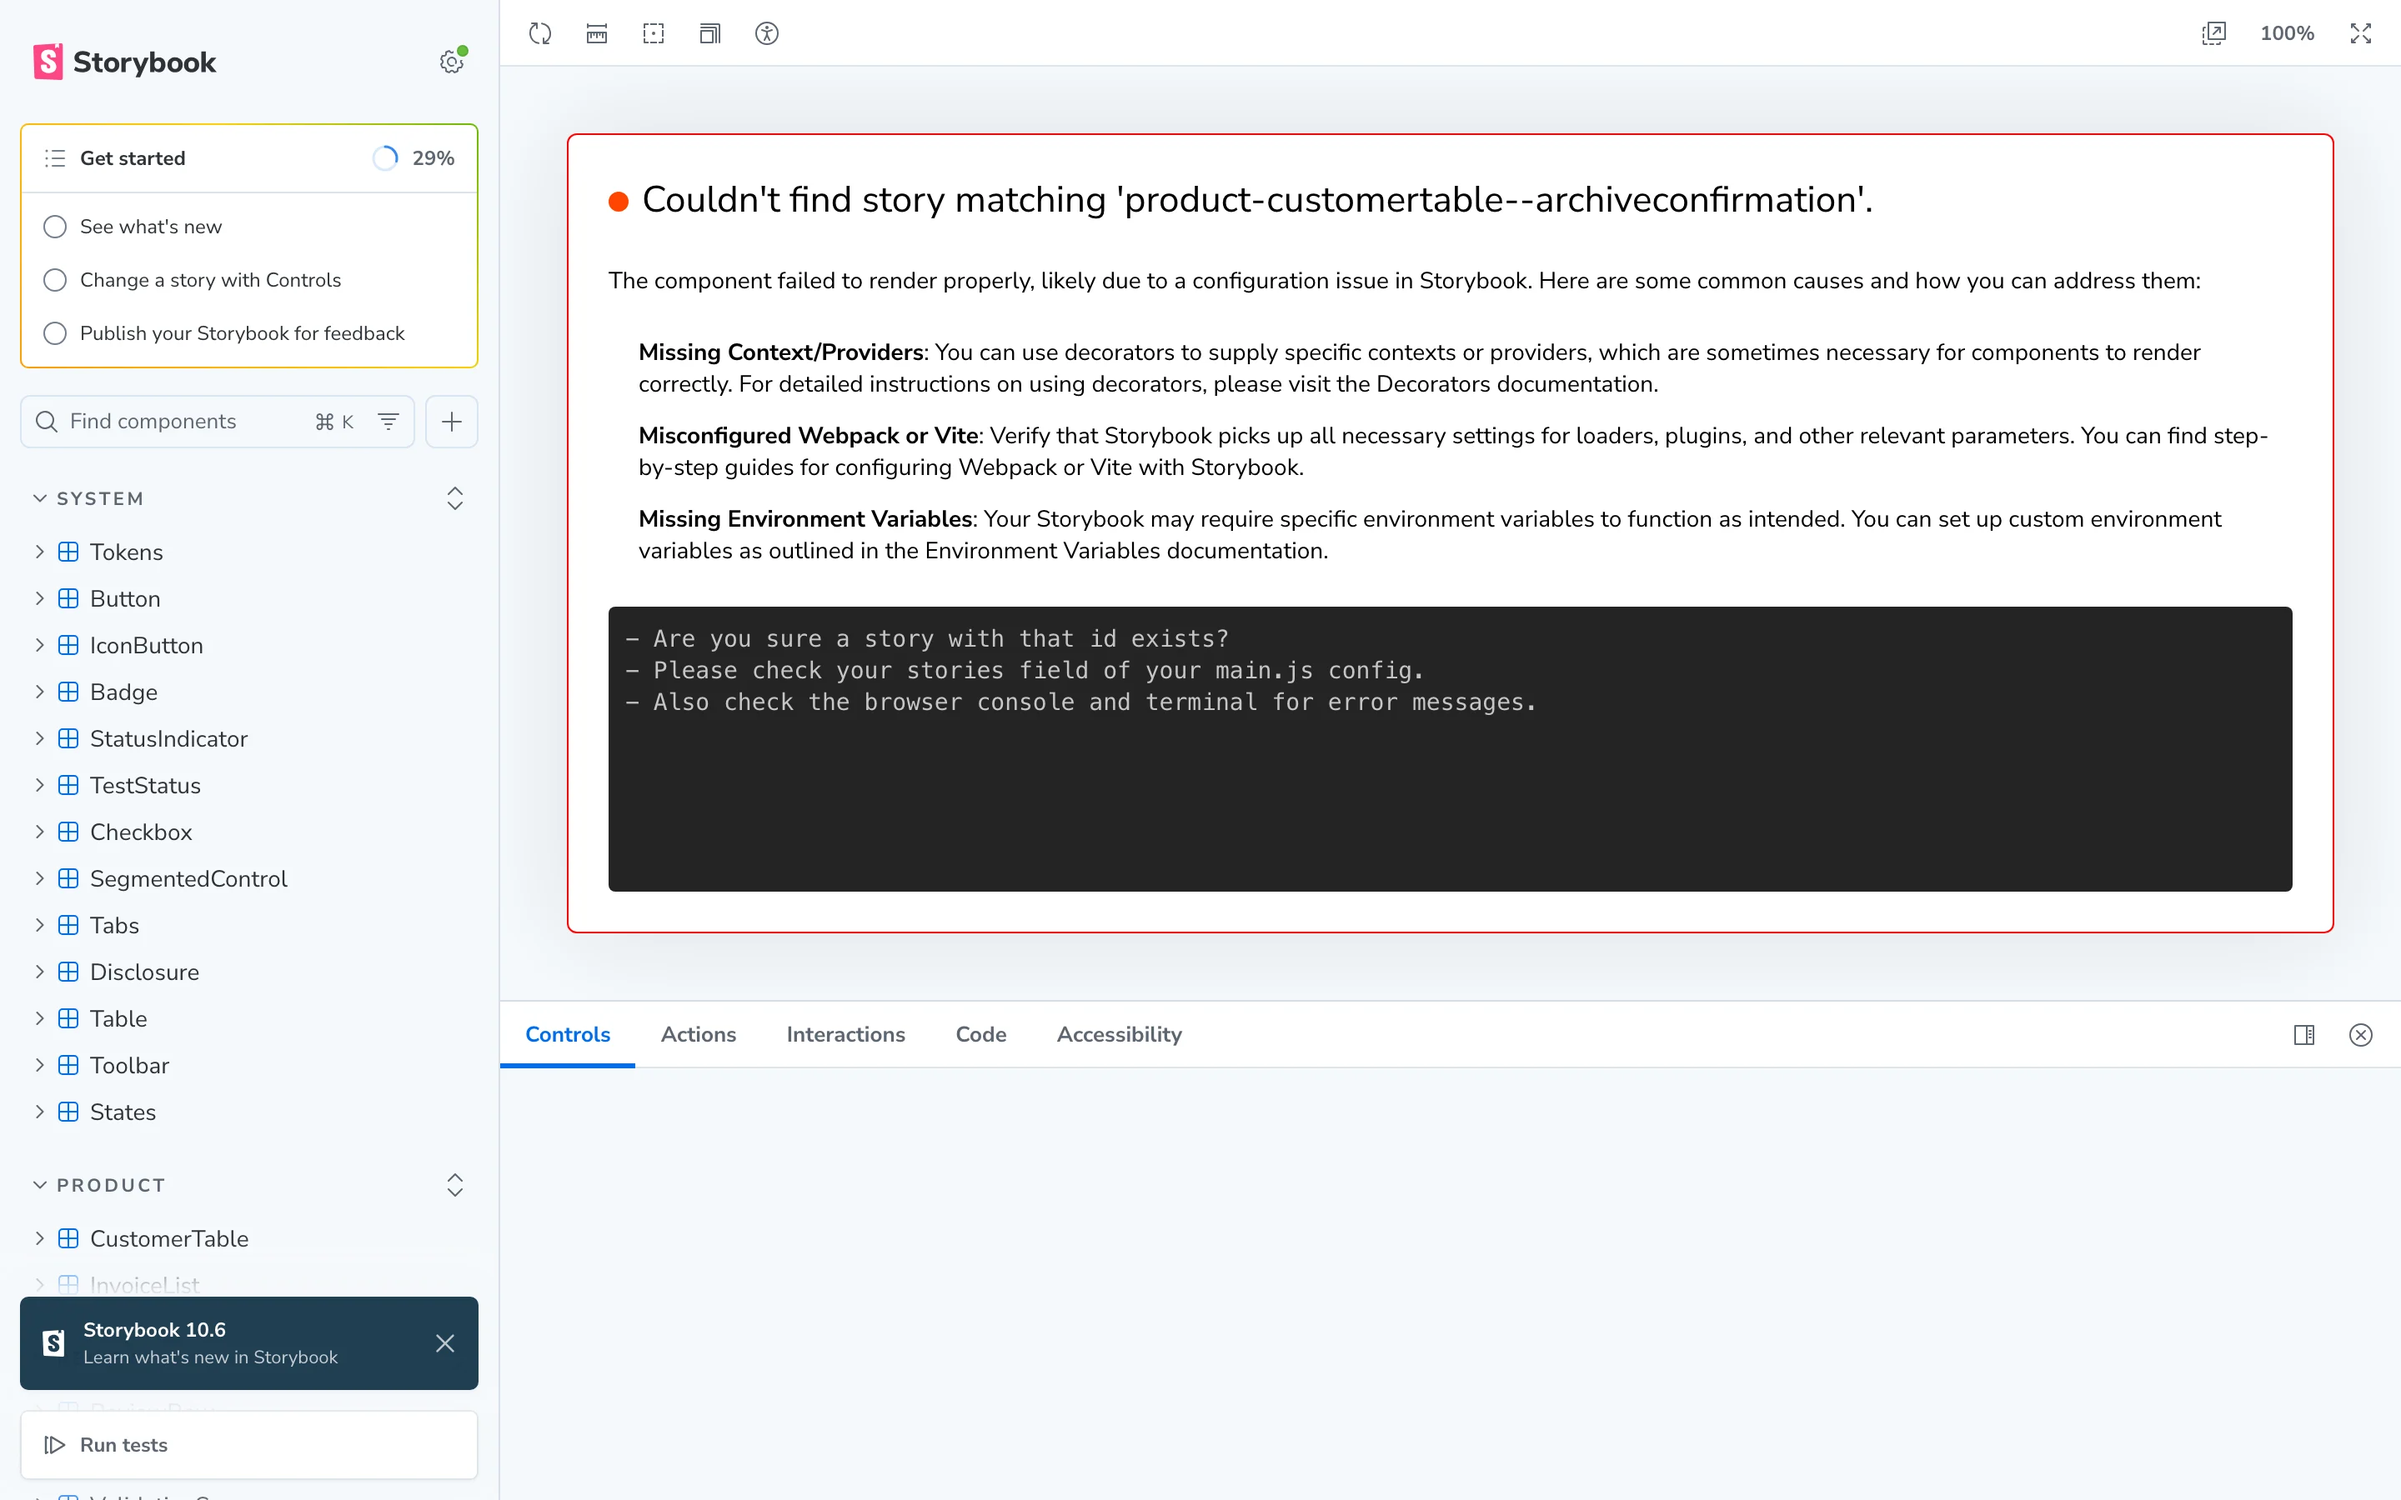
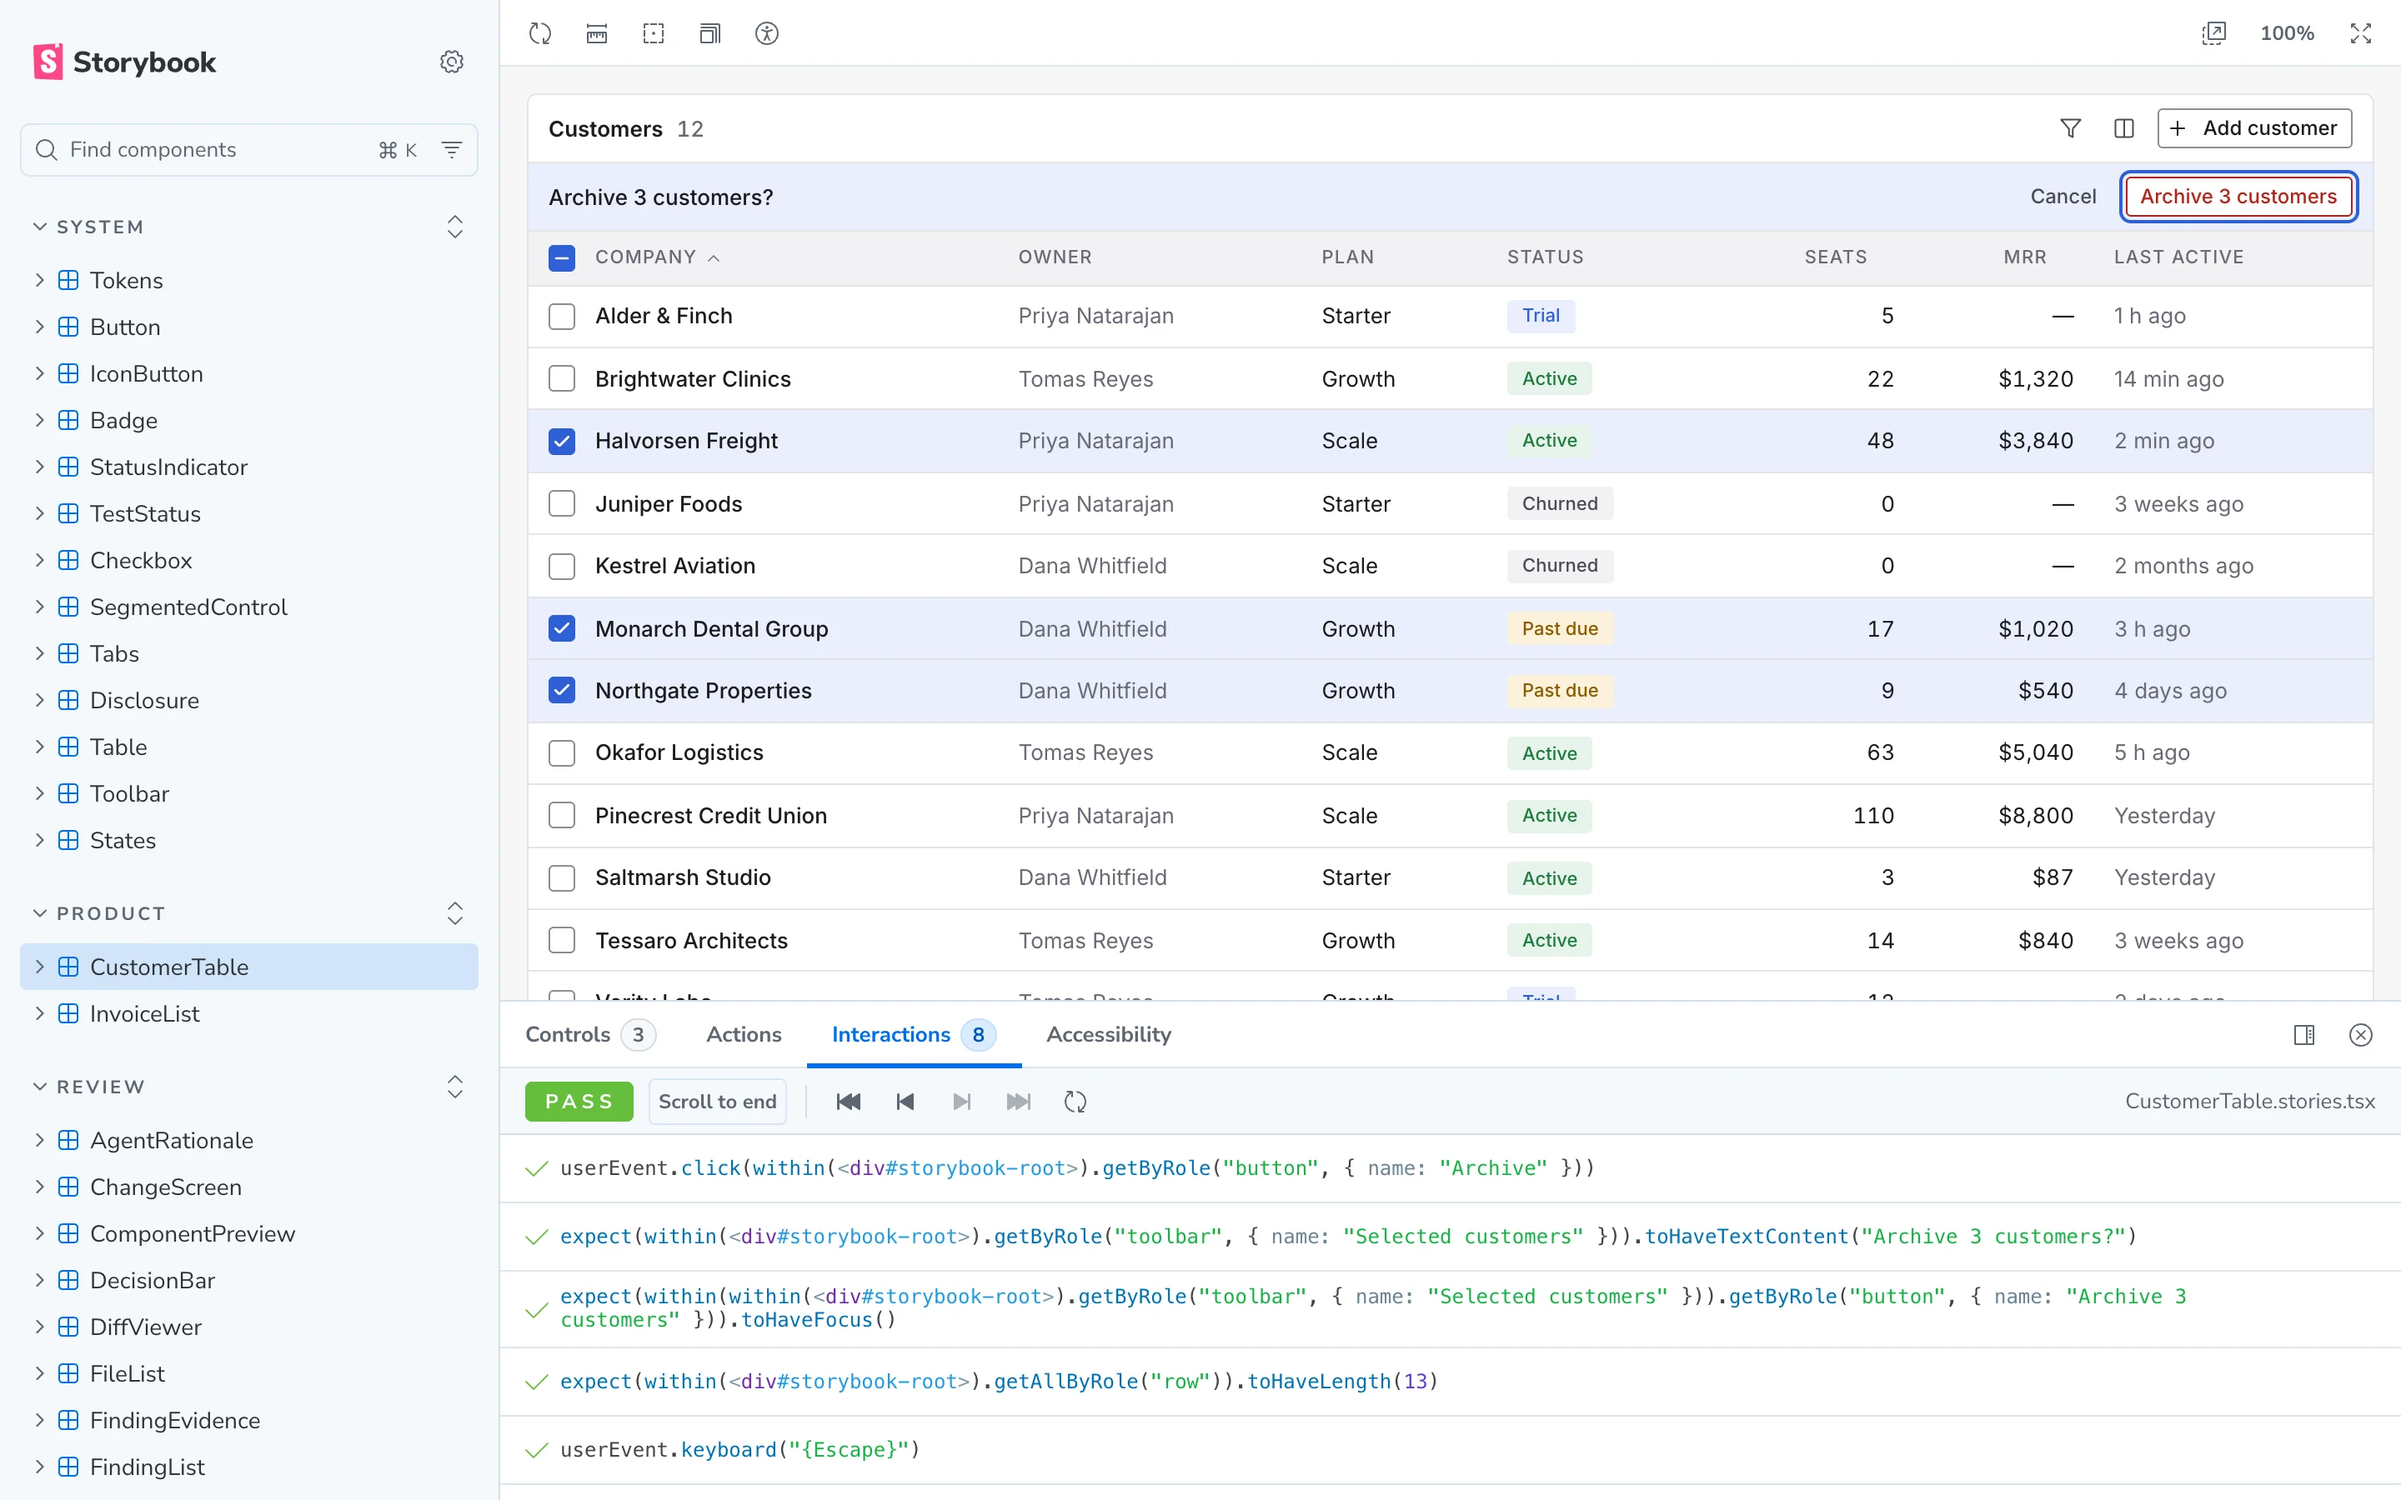
The Agent Review Storybook shot shows the story, not Storybook's not-found page
The capture loaded product-customertable--archiveconfirmation; Storybook's
id is --archive-confirmation, so the committed file was the "Couldn't find
story" error. Retaken from the deployed Storybook at 1440x900 @2x on the
ArchiveConfirmation story, interactions panel open at PASS, CustomerTable
collapsed so the sidebar shows System, Product and Review as the alt says.
Same dimensions; ?v=2. resting 183 and states 80/73 on the page, as before.

diff --git a/lab/agent-review.html b/lab/agent-review.html
@@ -410,7 +410,7 @@
           <li>Every story a test: Vitest renders each one in Chromium and runs axe on it, with violations set to fail. A token lint reports any literal written where a token exists. Playwright holds the screens to their baselines and every toolbar to its own box at 768.</li>
         </ul>
         <figure class="build-shot">
-          <img src="../img/lab/agent-review-storybook.webp?v=1" width="1440" height="900" loading="lazy" decoding="async"
+          <img src="../img/lab/agent-review-storybook.webp?v=2" width="1440" height="900" loading="lazy" decoding="async"
                alt="The Storybook, open on Product / CustomerTable / ArchiveConfirmation: the sidebar lists System, Product and Review groups; the canvas shows the customer table with three rows selected and the selection toolbar turned into the question &ldquo;Archive 3 customers?&rdquo; with Cancel and a red Archive 3 customers button; the panel below shows the interaction test&rsquo;s steps passing." />
           <figcaption>The Storybook. The story shown is one the agent wrote; its play function presses Archive and asserts the question, the focus, and that Escape cancels.</figcaption>
         </figure>
